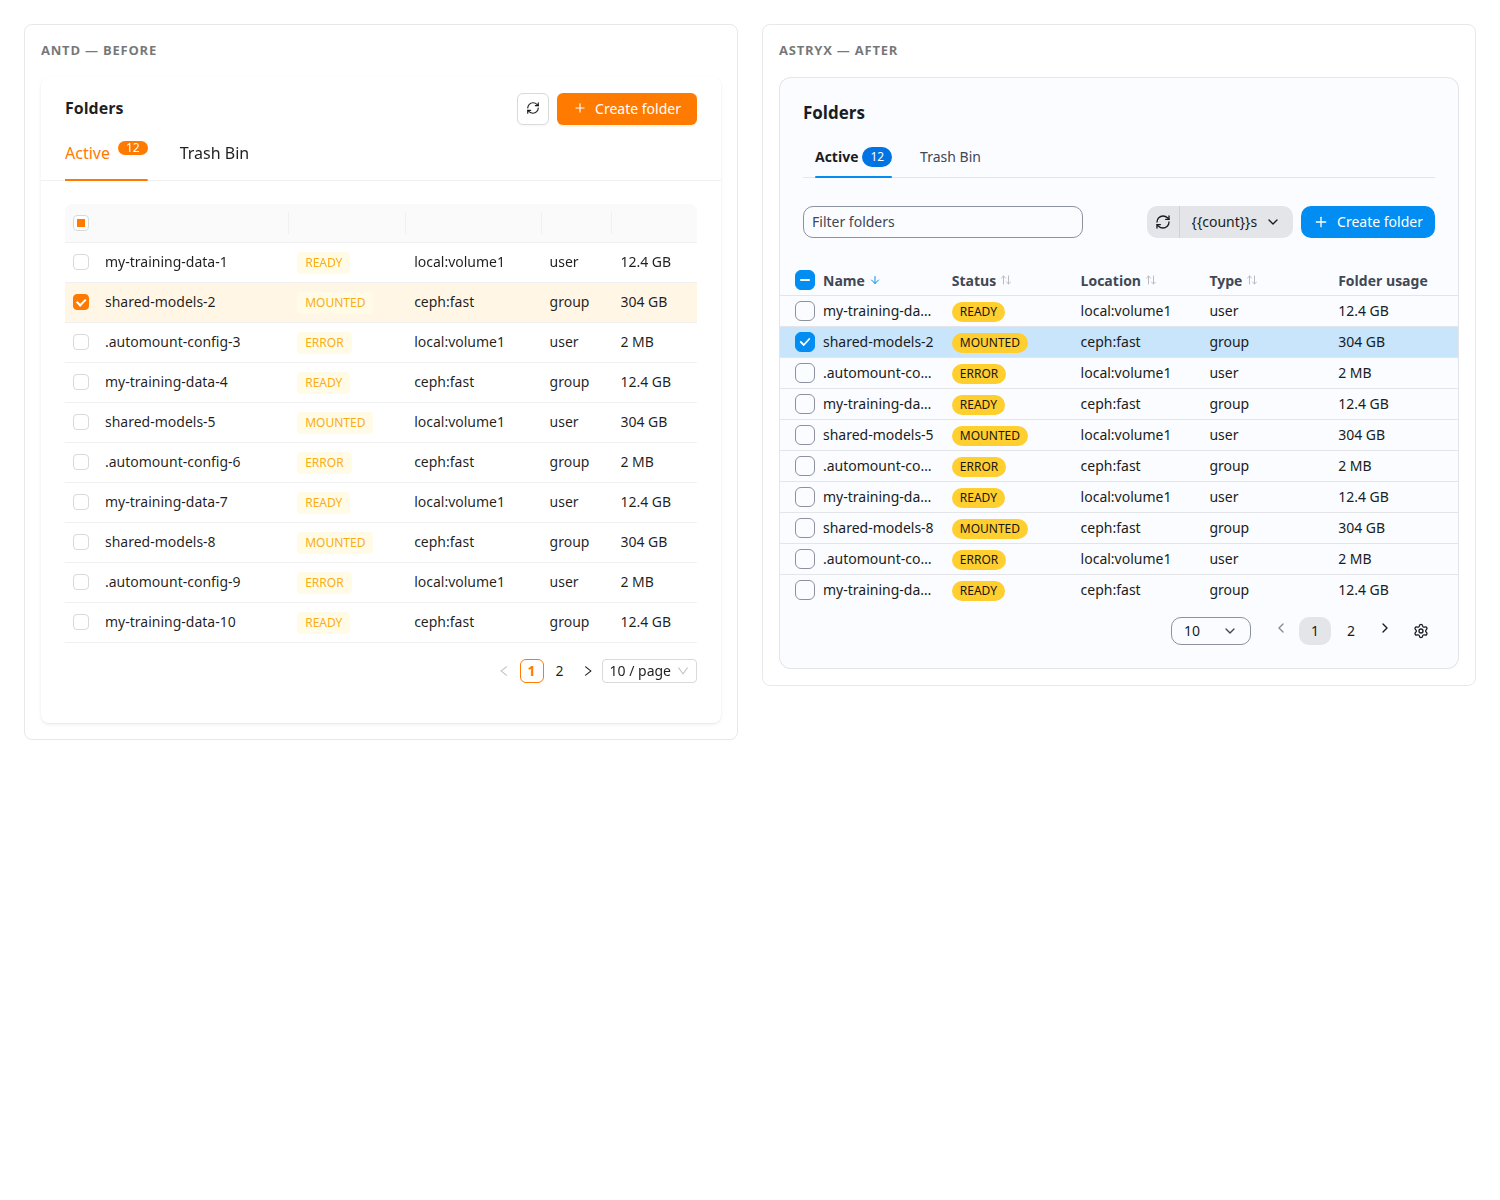
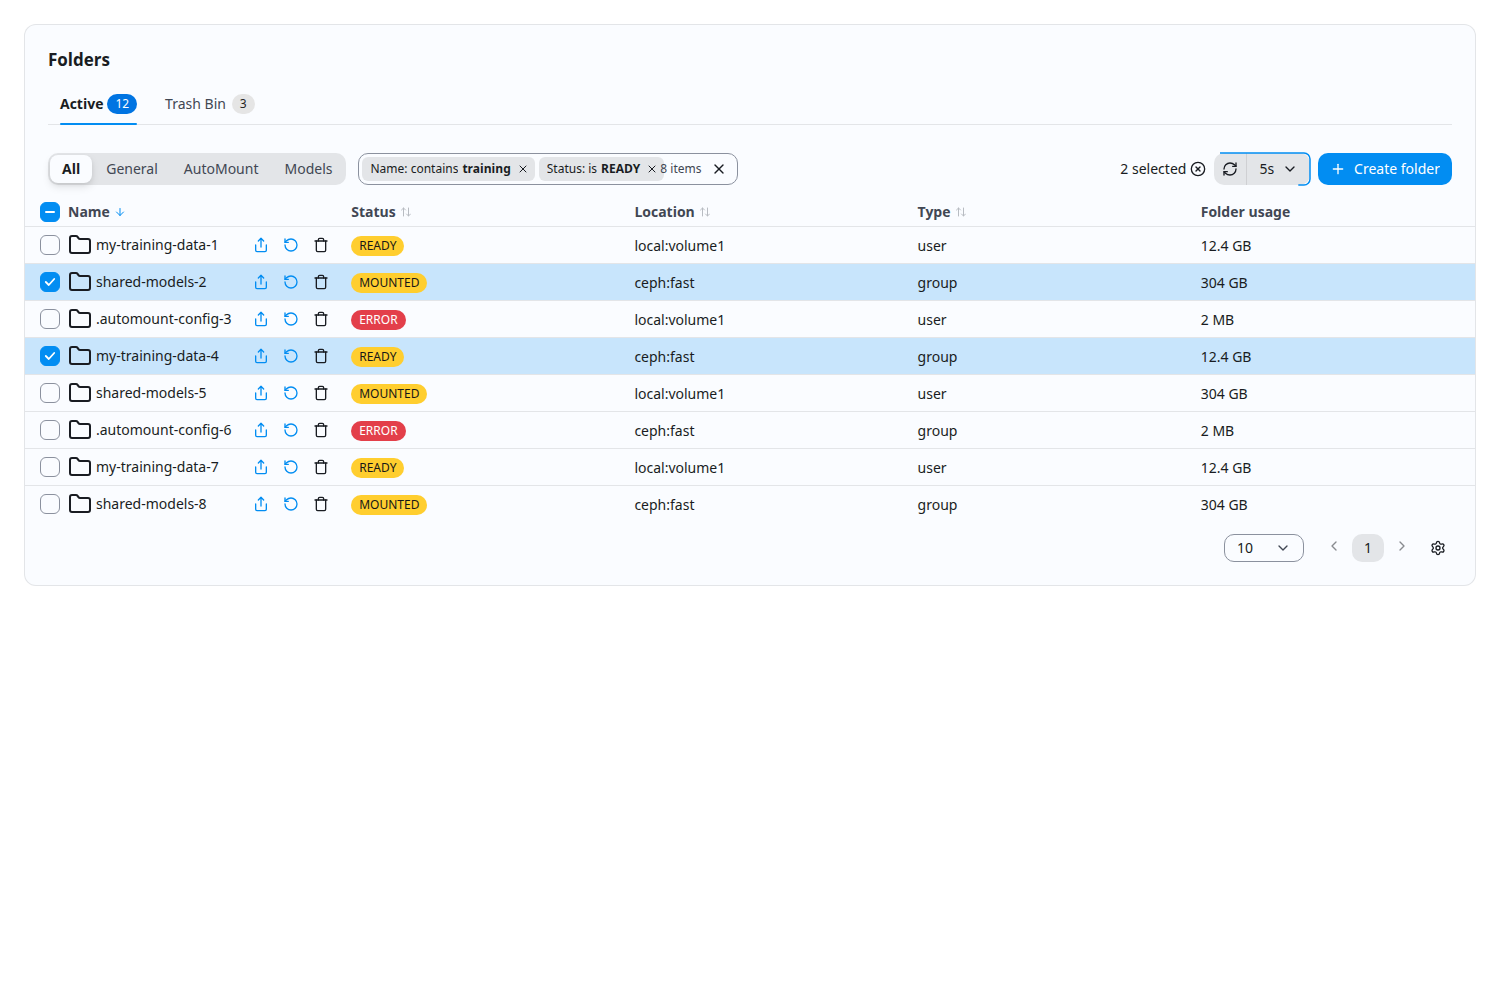
pilot(phase6): component-owned CSS, phase6 isolation harness and screenshots

diff --git a/react/src/index.css b/react/src/index.css
@@ -33,97 +33,9 @@
   }
 }
 
-/* PILOT PHASE 6 (item 6): countdown-border keyframes for
-   BAICountdownBorderAstryx. `pathLength={100}` normalises the stroke length so
-   the offset animation is size-independent: the rounded-rect outline draws
-   clockwise from the top-left over one refresh cycle, then resets.
-   Ported from `packages/backend.ai-ui/src/components/BAICountdownBorder.tsx`,
-   which expressed the same rule through antd-style `createStyles`. */
-@keyframes bai-countdown-border-fill {
-  from {
-    stroke-dashoffset: 100;
-  }
-  to {
-    stroke-dashoffset: 0;
-  }
-}
-
-.bai-countdown-border-fill {
-  animation-name: bai-countdown-border-fill;
-  animation-timing-function: linear;
-  animation-iteration-count: infinite;
-}
-
-/* The BUI original carried the same guard; kept, and additionally the spinner
-   above is left alone because it signals in-flight state, not decoration. */
-@media (prefers-reduced-motion: reduce) {
-  .bai-countdown-border-fill {
-    animation: none;
-    /* With no animation the dash offset would freeze at its initial value and
-       show nothing at all; pin it to a fully drawn outline so the control still
-       reads as "auto-refresh is armed". */
-    stroke-dashoffset: 0;
-  }
-}
-
-/* PILOT PHASE 6 (item 4): BAINameActionCellAstryx. These are the five
-   `createStyles` rules from BUI's `BAINameActionCell`, moved out of `antd-style`
-   and re-expressed with Astryx theme CSS vars. Nothing here targets `.ant-*`,
-   which is the P6 failure mode this rewrite closes. */
-.bai-name-action-cell {
-  display: flex;
-  align-items: center;
-  gap: 8px;
-  width: 100%;
-  min-width: 0;
-  position: relative;
-}
-
-.bai-name-action-cell-title-area {
-  flex: 1;
-  min-width: 0;
-  display: flex;
-  align-items: center;
-  gap: 4px;
-}
-
-.bai-name-action-cell-title-icon {
-  flex-shrink: 0;
-  display: flex;
-  align-items: center;
-}
-
-.bai-name-action-cell-actions {
-  flex-shrink: 0;
-  display: flex;
-  align-items: center;
-  gap: 2px;
-}
-
-.bai-name-action-cell-actions-hidden {
-  max-width: 0;
-  overflow: hidden;
-  opacity: 0;
-  pointer-events: none;
-  transition: opacity 0.15s ease;
-}
-
-.bai-name-action-cell-hover:hover .bai-name-action-cell-actions,
-.bai-name-action-cell-hover:has(:focus-visible) .bai-name-action-cell-actions {
-  max-width: none;
-  overflow: visible;
-  opacity: 1;
-  pointer-events: auto;
-}
-
-.bai-name-action-cell-default {
-  color: var(--color-text-accent);
-}
-
-.bai-name-action-cell-danger {
-  color: var(--color-text-error);
-}
-
-.bai-name-action-cell-disabled {
-  color: var(--color-text-disabled);
-}
+/* PILOT PHASE 6: the countdown-border keyframes and the BAINameActionCell
+   rules that used to live here now ship with the components that need them
+   (`react/src/components/astryx-bui/astryxBui.css`), so a component works
+   wherever it is mounted instead of depending on the app's global stylesheet.
+   The isolation harness caught this: the rules simply did not apply there —
+   the same silent-CSS class as P6, one layer up. */

diff --git a/react/src/components/astryx-bui/astryxBui.css b/react/src/components/astryx-bui/astryxBui.css
@@ -1,0 +1,100 @@
+/* PILOT PHASE 6 (cn-oss-removal / ticket 10) — CSS owned by the local Astryx
+   components in this directory. Imported by the components themselves, not by
+   the app shell, so they carry their own styling wherever they are mounted.
+
+   Everything here replaces an `antd-style` `createStyles` block. None of it
+   targets `.ant-*`, which is the P6 failure mode these rewrites close. */
+/* PILOT PHASE 6 (item 6): countdown-border keyframes for
+   BAICountdownBorderAstryx. `pathLength={100}` normalises the stroke length so
+   the offset animation is size-independent: the rounded-rect outline draws
+   clockwise from the top-left over one refresh cycle, then resets.
+   Ported from `packages/backend.ai-ui/src/components/BAICountdownBorder.tsx`,
+   which expressed the same rule through antd-style `createStyles`. */
+@keyframes bai-countdown-border-fill {
+  from {
+    stroke-dashoffset: 100;
+  }
+  to {
+    stroke-dashoffset: 0;
+  }
+}
+
+.bai-countdown-border-fill {
+  animation-name: bai-countdown-border-fill;
+  animation-timing-function: linear;
+  animation-iteration-count: infinite;
+}
+
+/* The BUI original carried the same guard; kept, and additionally the spinner
+   above is left alone because it signals in-flight state, not decoration. */
+@media (prefers-reduced-motion: reduce) {
+  .bai-countdown-border-fill {
+    animation: none;
+    /* With no animation the dash offset would freeze at its initial value and
+       show nothing at all; pin it to a fully drawn outline so the control still
+       reads as "auto-refresh is armed". */
+    stroke-dashoffset: 0;
+  }
+}
+
+/* PILOT PHASE 6 (item 4): BAINameActionCellAstryx. These are the five
+   `createStyles` rules from BUI's `BAINameActionCell`, moved out of `antd-style`
+   and re-expressed with Astryx theme CSS vars. Nothing here targets `.ant-*`,
+   which is the P6 failure mode this rewrite closes. */
+.bai-name-action-cell {
+  display: flex;
+  align-items: center;
+  gap: 8px;
+  width: 100%;
+  min-width: 0;
+  position: relative;
+}
+
+.bai-name-action-cell-title-area {
+  flex: 1;
+  min-width: 0;
+  display: flex;
+  align-items: center;
+  gap: 4px;
+}
+
+.bai-name-action-cell-title-icon {
+  flex-shrink: 0;
+  display: flex;
+  align-items: center;
+}
+
+.bai-name-action-cell-actions {
+  flex-shrink: 0;
+  display: flex;
+  align-items: center;
+  gap: 2px;
+}
+
+.bai-name-action-cell-actions-hidden {
+  max-width: 0;
+  overflow: hidden;
+  opacity: 0;
+  pointer-events: none;
+  transition: opacity 0.15s ease;
+}
+
+.bai-name-action-cell-hover:hover .bai-name-action-cell-actions,
+.bai-name-action-cell-hover:has(:focus-visible) .bai-name-action-cell-actions {
+  max-width: none;
+  overflow: visible;
+  opacity: 1;
+  pointer-events: auto;
+}
+
+.bai-name-action-cell-default {
+  color: var(--color-text-accent);
+}
+
+.bai-name-action-cell-danger {
+  color: var(--color-text-error);
+}
+
+.bai-name-action-cell-disabled {
+  color: var(--color-text-disabled);
+}

diff --git a/react/.pilot-probe/phase6.tsx b/react/.pilot-probe/phase6.tsx
@@ -51,8 +51,42 @@ import {
   RotateCcwIcon,
   FolderIcon,
 } from 'lucide-react';
+import i18next from 'i18next';
 import React, { useState } from 'react';
 import { createRoot } from 'react-dom/client';
+import { initReactI18next } from 'react-i18next';
+
+// Phase 4 recorded that the harness renders `{{count}}s` uninterpolated because
+// it mounts no i18next instance. Fixed here with a minimal one carrying only the
+// keys these components ask for, so the shots show real labels.
+void i18next.use(initReactI18next).init({
+  lng: 'en',
+  fallbackLng: 'en',
+  ns: ['translation', 'comp'],
+  defaultNS: 'translation',
+  interpolation: { escapeValue: false },
+  resources: {
+    en: {
+      translation: {
+        general: {
+          NSelected: '{{count}} selected',
+          DeselectAll: 'Deselect all',
+        },
+      },
+      comp: {
+        BAIFetchKeyButton: {
+          Refresh: 'Refresh',
+          AutoRefresh: 'Auto Refresh',
+          LastUpdated: 'Last Updated',
+          Off: 'Off',
+          EverySeconds: '{{count}}s',
+          EveryMinutes: '{{count}}m',
+          EveryHours: '{{count}}h',
+        },
+      },
+    },
+  },
+});
 
 interface Row extends Record<string, unknown> {
   id: string;

diff --git a/react/src/components/astryx-bui/BAICountdownBorderAstryx.tsx b/react/src/components/astryx-bui/BAICountdownBorderAstryx.tsx
@@ -42,6 +42,7 @@
  the "auto-refresh is armed" affordance entirely. Pinning `stroke-dashoffset: 0`
  keeps the affordance and drops only the motion.
 */
+import './astryxBui.css';
 import React, { useEffect, useRef, useState } from 'react';
 
 export interface BAICountdownBorderAstryxProps {

diff --git a/react/src/components/astryx-bui/BAINameActionCellAstryx.tsx b/react/src/components/astryx-bui/BAINameActionCellAstryx.tsx
@@ -54,6 +54,7 @@
     the antd original's tinted-on-hover text button.
 */
 import { App } from '../../app-shim';
+import './astryxBui.css';
 import { Button } from '@astryxdesign/core/Button';
 import {
   DropdownMenu,
